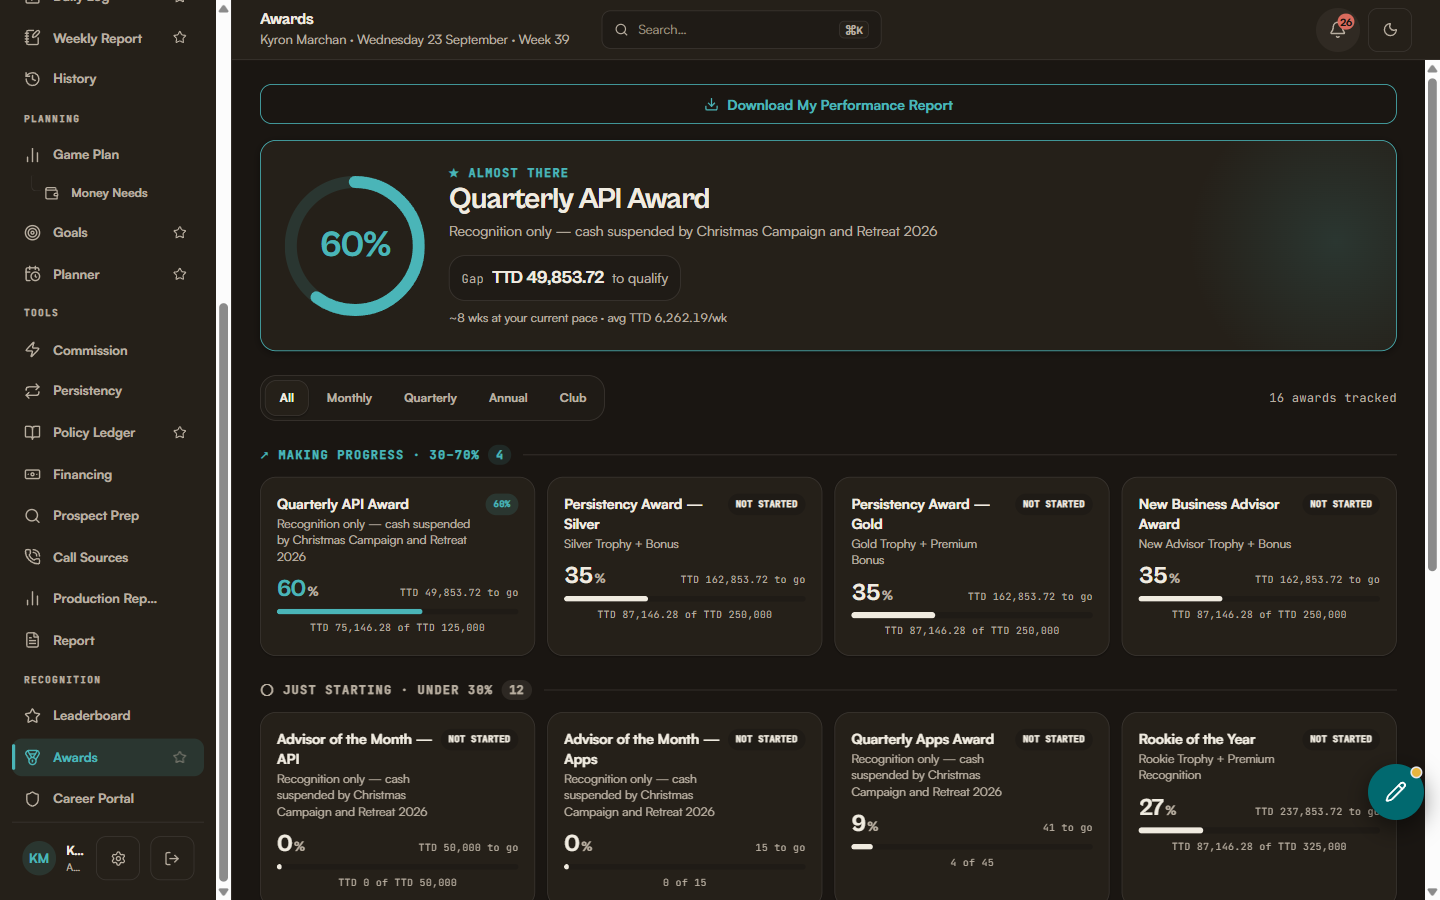
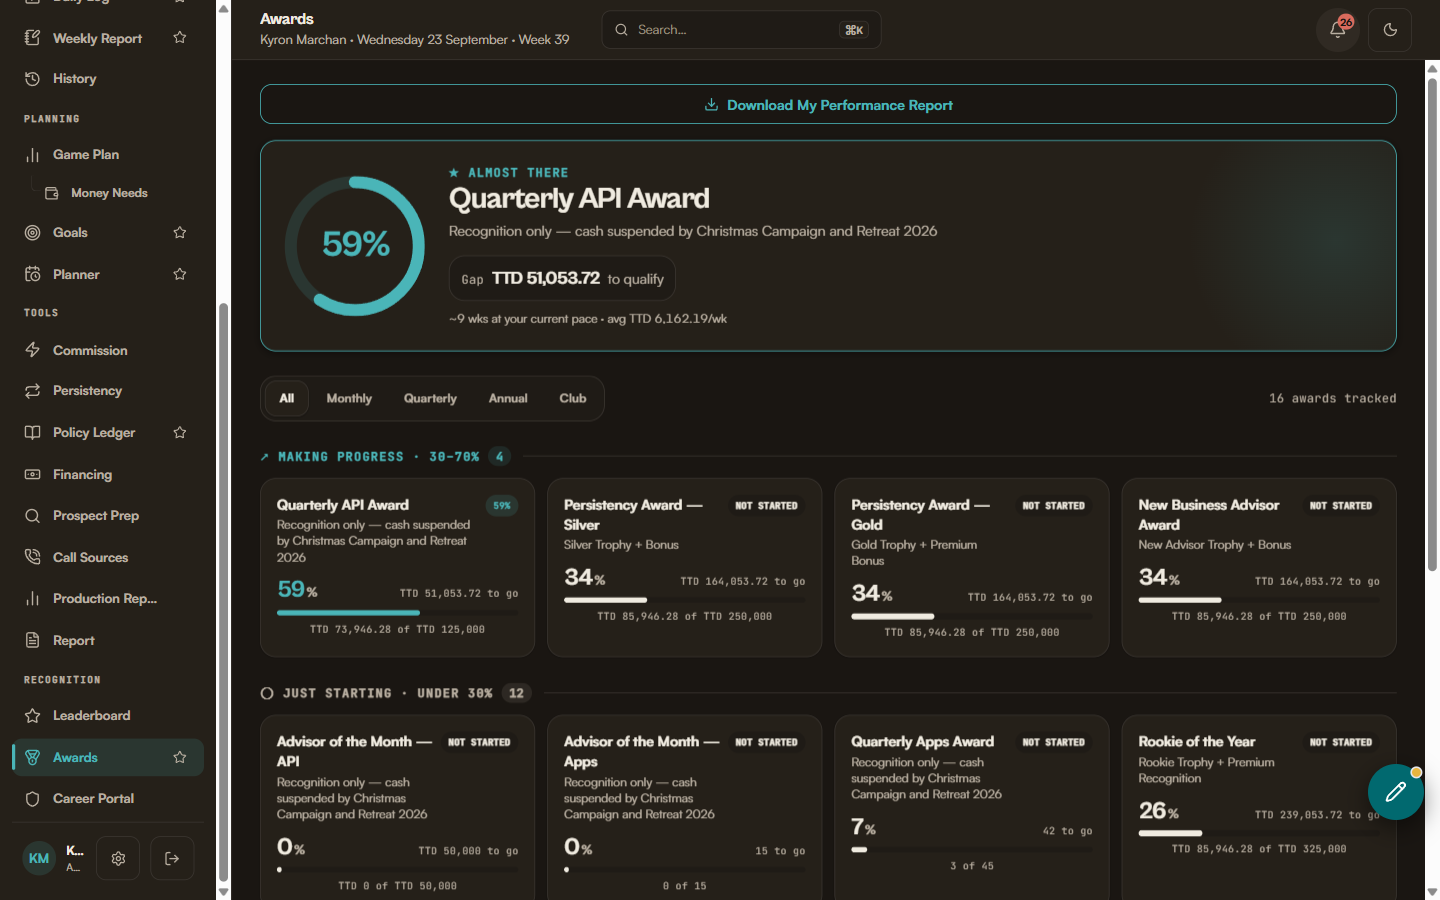
test(smoke): re-check awards after the self/family ruling; bank NOT STARTED label
Smoke now expects Q3 TTD 73,946.28 / 3 apps, MDRT TTD 87,146.28, and
checks the home hero still reads TTD 87,146.28. The August check is
marked WAIVED under the dispatcher's Option 1. 10 PASS / 0 FAIL /
4 BLOCKED (2 flag-off source chip, 2 waived August).

FOLLOW_UPS: award cards say NOT STARTED above 0% progress; scheduled
for H3 by dispatcher ruling.

diff --git a/docs/FOLLOW_UPS.md b/docs/FOLLOW_UPS.md
@@ -25,6 +25,7 @@
 | `enforce_admins: false` on `main` — every direct push bypasses both required status checks, so `main`'s CI gate is advisory for the only person who pushes there. Observed, not inferred: a brief-landing push returned `remote: Bypassed rule violations for refs/heads/main: 2 of 2 required status checks are expected.` **Dispatcher decision required — do NOT change the setting.** Turning it on costs ~5 min of CI per dispatch (brief landings, CONTEXT fills, command-file changes all become PR-gated); leaving it off means the checks are decorative on the direct-push path (banked 2026-08-16, promotion-prep governance PR) | HIGH | Repo governance / CI | — | 5975 |
 | The flake family is ~10 named members and #899 fixed **TWO** (`MeetingMode`, `AgentPlannerPanel`) — the rest were deliberately left unruled. `staging` is better by two files, **not fixed**; corrects the framing in `main`'s § *The #899 flake fix lives on `staging` ONLY*, which arrives at the next promotion. Evidence: #907 is cut from `staging`, docs-only, and still went red on `BranchesPanel` (roster member 7). The promotion acceptance check proves the fix ARRIVED, not that the gate is clean (banked 2026-08-16, PR #907) | HIGH | CI / process | — | 6013 |
 | Firestore cache crash `INTERNAL ASSERTION FAILED (ID: b815)` from `src/firebase.js`'s `persistentMultipleTabManager`. Out of scope for the hero-ledger brief by its own terms; banked here on its instruction. Severity is a placeholder until someone reproduces it (banked 2026-09-23, hero-ledger H1) | MEDIUM | Firestore / offline cache | — | see § Firestore cache crash b815 |
+| Award cards say **NOT STARTED** above 0% progress: `AwardCard`'s state pill (`src/components/awards/awardPrimitives.jsx` `stateText`) falls through to `'NOT STARTED'` for every award that is neither qualified nor in contention, so live cards read "NOT STARTED · 17%" (MDRT) and "NOT STARTED · 7%" (Q3 apps). **Scheduled for H3** by dispatcher ruling (banked 2026-09-23, hero-ledger H2 / PR #969) | LOW | Awards UI copy | — | see § Award card NOT STARTED above 0% |
 | **PARTLY RESOLVED 2026-08-27 (PR #924) — and the original MEDIUM rating was WRONG, which is the part worth keeping.** `ingestCallActivity` no longer hardcodes the tenant: it reads `process.env.AGENCYTRACK_TENANT_ID` and falls back to `'tatillife_south'`, a default chosen to be byte-identical so production cannot drift (verified post-deploy: `functions/` holds no `.env.agencytrack-2a610`). `functions/.env.agencytrack-staging` supplies `staging_test` and is TRACKED via a `.gitignore` negation placed AFTER the `.env.*` rule — last match wins, and the same line placed earlier is inert, which is a mistake that was actually made and caught. **Why the rating was wrong:** this was filed as "a second tenant's tokens would 401 — failing closed, but silently", which reads as a multi-tenancy nicety. The real consequence was that a staging-minted token resolved against a tenant absent from the staging project, so **the endpoint could not be exercised anywhere except PRODUCTION** — making slice B's own named deliverable, a staging-only smoke, impossible by construction. A constant that makes a feature untestable outside production is not a deferred nicety, and "fails closed silently" hid that. **STILL OPEN:** `functions/index.js:62` and `aggregators/sundayDailyToWeekly.js:30` remain hardcoded — deliberately untouched, since they are scheduled functions that simply find no data under the production tenant in staging and do nothing (banked 2026-08-26, slice B / PR #923; part-closed 2026-08-27, PR #924) | MEDIUM | SEC-9c / multi-tenancy | — | see § `ingestCallActivity` resolves tokens against a HARDCODED tenant |
 | The `referralsObtained` half of the PR #909 omit-when-zero guard is still open — slice B retired ONLY the `serviceCalls` half, because B gives that field a daily writer and does not write `referralsObtained` (KQM referral outcomes map to `newNamesAdded`). **Corrects the sequencing recorded in CONTEXT.md**, which put the whole retirement after slice C: the trigger is a daily writer, not a slice letter. Retires in BOTH aggregator twins when one appears (banked 2026-08-26, slice B / PR #923) | MEDIUM | Daily Capture / aggregator | — | see § The `referralsObtained` half |
 | Company Config has no generic plain-value surface — `mode: 'plain'` is hardcoded to manager activity standards at every layer (`baseValue` ignores `storage.docId`; `saveAll` passes a literal docId; only `type: 'standards'` renders editable; `HYDRATED_DOC_IDS` is a fixed array). A boolean or scalar setting cannot be rendered or edited, and resolves to `{}` rather than its default. Persistency P5 hit this and was redirected by dispatcher amendment to store on the already-hydrated `companyMinimums` doc with NO registry entry and NO UI row — so its setting is runtime-real but changeable only by direct Firestore write (banked 2026-09-08, Persistency P5) | MEDIUM | Company Config / admin surface | — | see § Company Config has no generic plain-value surface |
@@ -7410,3 +7411,14 @@ The entry above is about a missing exit DATE. Reviewing C4 surfaced the same roo
 
 **Falsification (Rule 23):** the MEDIUM rating is overturned upward if the assertion leaves the app unusable until the user clears site data, and downward if it is a one-off console error that recovers on reload.
 
+## Award card NOT STARTED above 0%
+
+**Banked 2026-09-23 from hero-ledger H2 (PR #969). Dispatcher ruling: fix it in H3.**
+
+**The defect.** `AwardCard` in `src/components/awards/awardPrimitives.jsx` picks its state pill as `isQualified ? 'QUALIFIED' : isContention ? '<n>%' : 'NOT STARTED'`. "In contention" is a threshold the awards engine sets per award, well above zero, so any award with real progress below that threshold is labelled NOT STARTED. Seen live on Kyron's Awards tab, 23 Sep 2026: MDRT "NOT STARTED · 17%", Quarterly Apps "NOT STARTED · 7%", Persistency Silver/Gold "NOT STARTED · 35%".
+
+**Why it matters.** It reads as "the app sees none of my business" — the exact complaint the hero-ledger brief exists to fix — while the number beside it says otherwise.
+
+**Fix shape (H3 to confirm).** A third state for `0 < progressPercent` below contention (for example "IN PROGRESS"), keeping NOT STARTED for exactly 0. Copy is a product call; the brief's "copy is design" rule applies. Check the `HeroAwardCard` and drawer for the same fall-through.
+
+**Falsification (Rule 23):** overturned if the engine's `inContention` is meant to be true from the first TTD of progress for every award, in which case the bug is in the engine thresholds, not the card.
